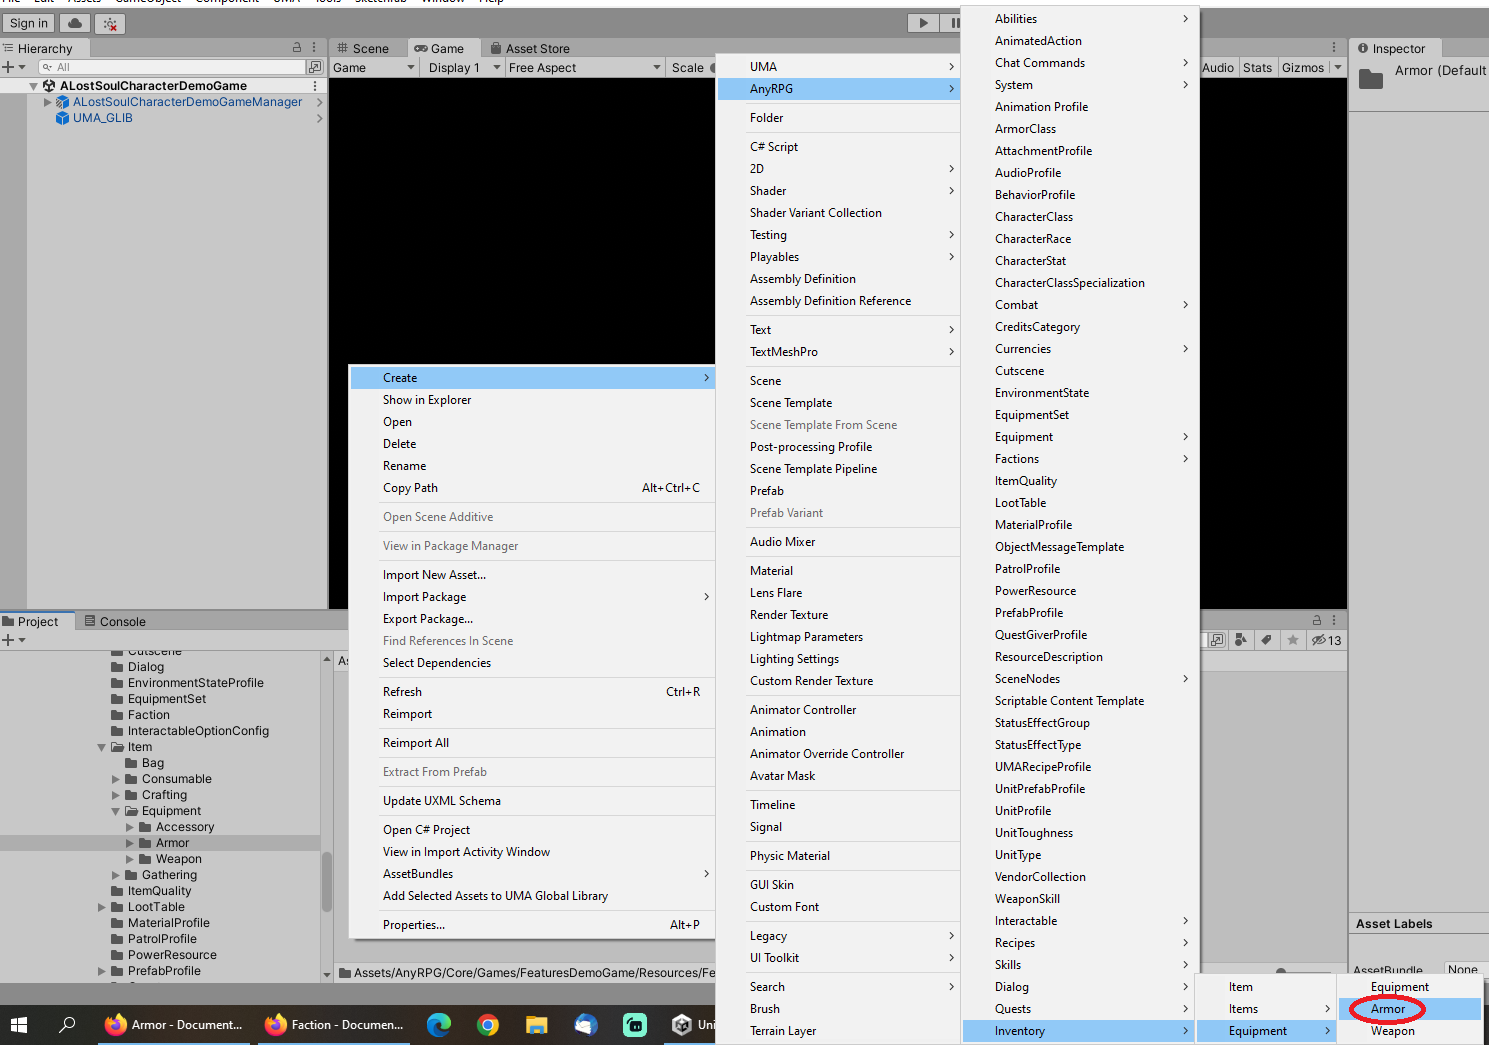
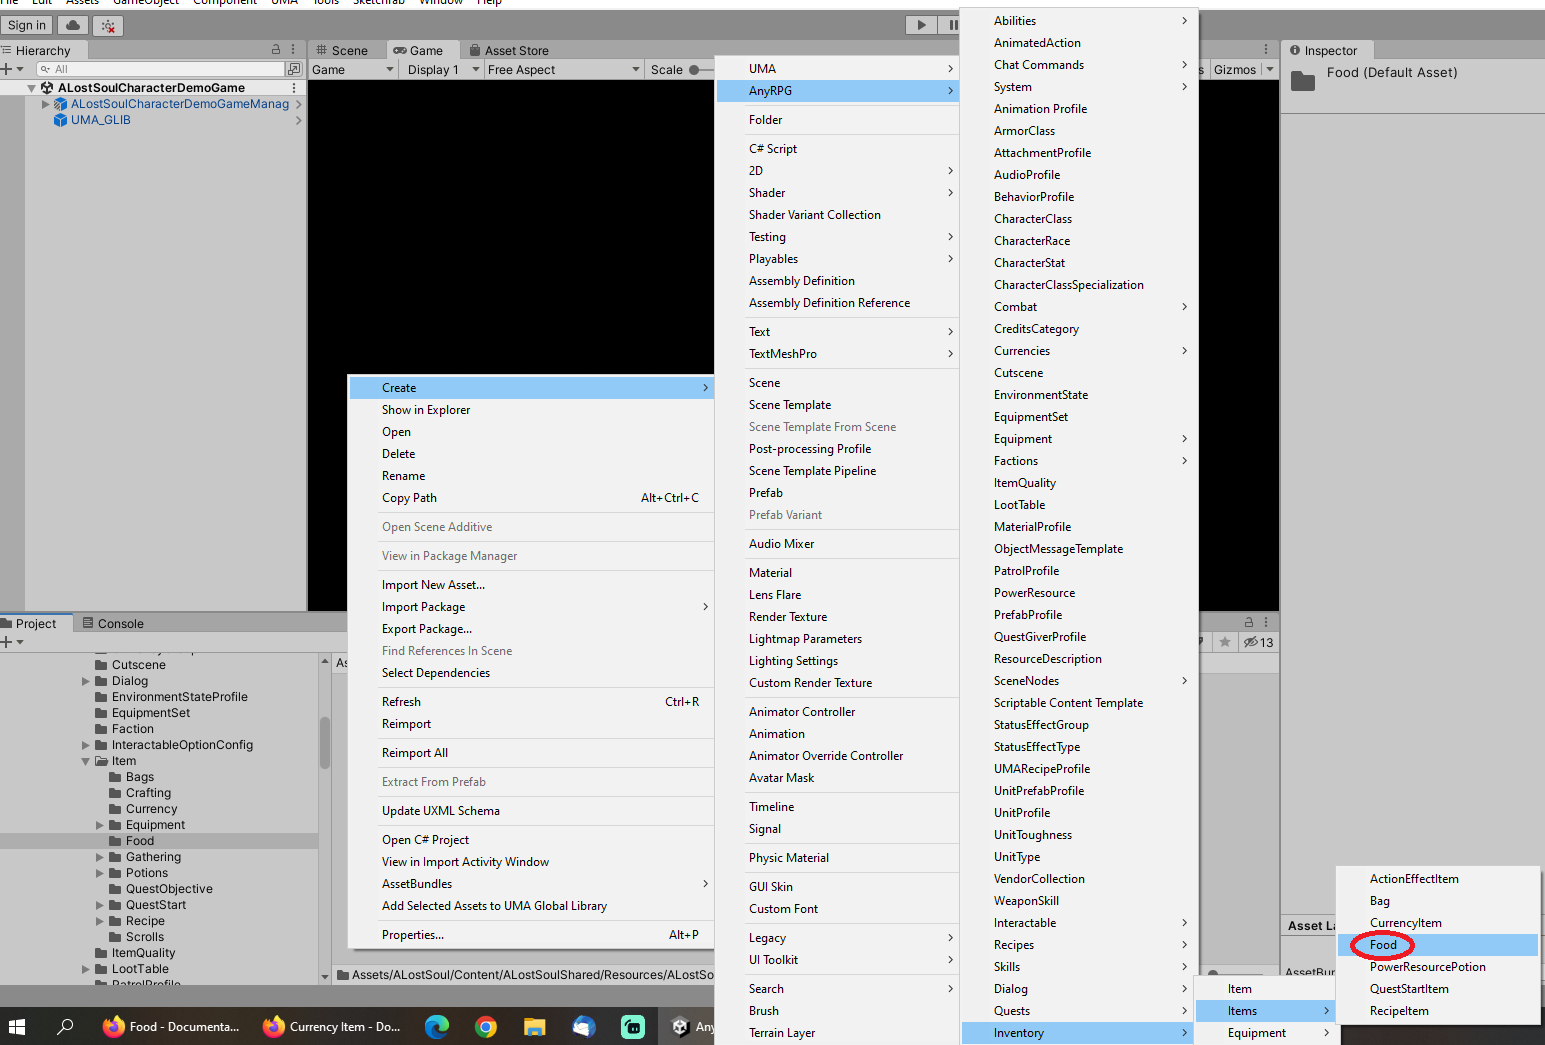
GitBook: [#43] add food documentation

Changed region(s): [[0.0, 0.0, 1.0, 1.0]]

diff --git a/scriptable-objects/items/food.md b/scriptable-objects/items/food.md
@@ -1,5 +1,35 @@
+---
+description: >-
+  Food is a type of resource that is consumed on use and can restore power
+  resources and cast status effects to buff the user.
+---
+
 # Food
 
-{% hint style="info" %}
-Coming Soon
-{% endhint %}
+## Creation
+
+To create food, find (or create) the _GameName/Resources/GameName/Item_ folder (or any subfolder) in the project tab and right click.  Choose _Create > AnyRPG > Inventory > Items > Food_.
+
+![](../../.gitbook/assets/image.png)
+
+## Properties
+
+In addition to the properties shared by all [Items](./), food has the following unique properties.
+
+| Name                       | Description                                                                                                                                                                                                                                                                                                                                                                                                                                                                                                                                                                                                                                                                                                                           |
+| -------------------------- | ------------------------------------------------------------------------------------------------------------------------------------------------------------------------------------------------------------------------------------------------------------------------------------------------------------------------------------------------------------------------------------------------------------------------------------------------------------------------------------------------------------------------------------------------------------------------------------------------------------------------------------------------------------------------------------------------------------------------------------- |
+| Consumption Verb           | The verb to use in the casting tip.                                                                                                                                                                                                                                                                                                                                                                                                                                                                                                                                                                                                                                                                                                   |
+| Holdable Object List       | <p>A list of <a href="../prefab-profile.md">PrefabProfiles</a> that contain links to GameObjects that will be held while the food is being consumed.<br><strong>Holdable Object Name</strong><br>The name of a <a href="../prefab-profile.md">PrefabProfile</a> that contains a link to a GameObject.<br><strong>Use Universal Attachment</strong><br>If true, attachment points from the <a href="../prefab-profile.md">PrefabProfile</a> will be ignored, and the universal attachment in the <em>Attachment Name</em> field will be used.<br><strong>Attachment Name</strong><br>The <em>Node Name</em> field from one of the <em>Attachment Point Nodes</em> in an <a href="../attachment-profile.md">Attachment Profile</a>.</p> |
+| Animation Clip             | An animation clip to play while the food is being consumed.                                                                                                                                                                                                                                                                                                                                                                                                                                                                                                                                                                                                                                                                           |
+| Animation Profile Name     | The name of an [Animation Profile](../animation-profile.md) that contains an animation clip to play while the food is being consumed.                                                                                                                                                                                                                                                                                                                                                                                                                                                                                                                                                                                                 |
+| Casting Audio Clip         | An audio clip to play while the food is being consumed.                                                                                                                                                                                                                                                                                                                                                                                                                                                                                                                                                                                                                                                                               |
+| Casting Audio Profile Name | The name of an [Audio Profile](../audio-profile.md) that contains an audio clip to play while the food is being consumed.                                                                                                                                                                                                                                                                                                                                                                                                                                                                                                                                                                                                             |
+| Tick Rate                  | The number of seconds that should elapse between each tick, where [Power Resources](../power-resource.md) from the _Resource Amounts_ list are restored while eating.                                                                                                                                                                                                                                                                                                                                                                                                                                                                                                                                                                 |
+| Resource Amounts           | <p>A list of <a href="../power-resource.md">Power Resources</a> and the amounts to restore while eating.<br><strong>Resource Name</strong><br>The name of a <a href="../power-resource.md">Power Resource</a>.<br><strong>Min Amount</strong><br>If the amount is lower than this value, it will be raised to this value.<br><strong>Base Amount</strong><br>Amount not scaled by level.<br><strong>Max Amount</strong><br>If the amount is higher than this value, it will be lowered to this value.  0 is unlimited.</p>                                                                                                                                                                                                            |
+| Status Effect              | A [Status Effect](../ability-effects/status-effect.md) to cast on the user when the food is completely consumed.                                                                                                                                                                                                                                                                                                                                                                                                                                                                                                                                                                                                                      |
+
+## Next Steps
+
+* Add food to a [Vendor Collection](../vendor-collection.md) so it can be purchased from a [Vendor](../interactable-option-configurations/vendor-config.md).
+* Add food to a [Loot Table](../loot-table/) so that it can drop upon defeat of an enemy.
+* Add food as an output to a [Recipe](recipe.md) so that it can be crafted.

diff --git a/scriptable-objects/items/armor.md b/scriptable-objects/items/armor.md
@@ -10,9 +10,7 @@ description: >-
 
 To create a faction, find (or create) the _GameName/Resources/GameName/Item/Equipment_ folder (or any subfolder of that folder) in the project tab and right click.  Choose _Create > AnyRPG > Inventory > Equipment > Armor_.
 
-![](../../.gitbook/assets/image.png)
-
-
+![](<../../.gitbook/assets/image (2).png>)
 
 ## Properties
 

diff --git a/scriptable-objects/items/currency-item.md b/scriptable-objects/items/currency-item.md
@@ -10,7 +10,7 @@ description: >-
 
 To create a currency item, find (or create) the _GameName/Resources/GameName/Item_ folder (or any subfolder) in the project tab and right click.  Choose _Create > AnyRPG > Inventory > Items > Currency Item_.
 
-![](<../../.gitbook/assets/image (2).png>)
+![](<../../.gitbook/assets/image (2) (2).png>)
 
 ## Properties
 
